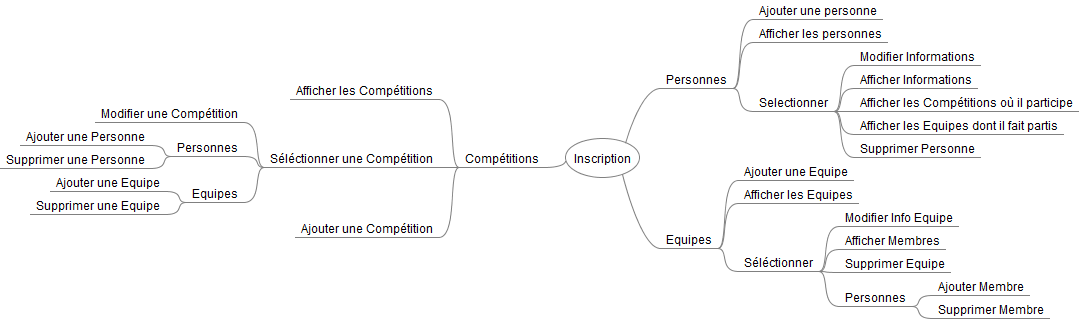
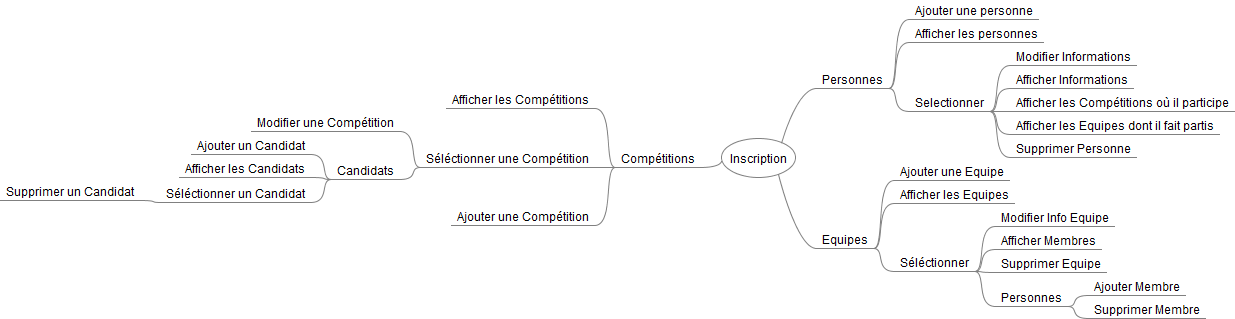
Mise à jour Arborescence de menu Candidat du côtés de compétition à la place de personne et équipe

diff --git a/InscriptionsSportives/Documents/Arborescence Menu.mm b/InscriptionsSportives/Documents/Arborescence Menu.mm
@@ -16,13 +16,12 @@
 <node CREATED="1543237430438" ID="ID_1581101758" MODIFIED="1543237439800" TEXT="Afficher les Comp&#xe9;titions"/>
 <node CREATED="1543237442670" ID="ID_1888822991" MODIFIED="1543237502496" TEXT="S&#xe9;l&#xe9;ctionner une Comp&#xe9;tition">
 <node CREATED="1543237519242" ID="ID_510768773" MODIFIED="1543237533350" TEXT="Modifier une Comp&#xe9;tition"/>
-<node CREATED="1543237536278" ID="ID_758800675" MODIFIED="1543237561507" TEXT="Personnes">
-<node CREATED="1543237569689" ID="ID_1584607204" MODIFIED="1543239162953" TEXT="Ajouter une Personne"/>
-<node CREATED="1543237668482" ID="ID_1163735905" MODIFIED="1543239157219" TEXT="Supprimer une Personne"/>
+<node CREATED="1543237536278" ID="ID_758800675" MODIFIED="1543843029094" TEXT="Candidats">
+<node CREATED="1543237569689" ID="ID_1584607204" MODIFIED="1543842968352" TEXT="Ajouter un Candidat"/>
+<node CREATED="1543843034666" ID="ID_62382430" MODIFIED="1543843085136" TEXT="Afficher les Candidats"/>
+<node CREATED="1543843112336" ID="ID_436267564" MODIFIED="1543843192209" TEXT="S&#xe9;l&#xe9;ctionner un Candidat">
+<node CREATED="1543237668482" ID="ID_1163735905" MODIFIED="1543842975233" TEXT="Supprimer un Candidat"/>
 </node>
-<node CREATED="1543237564550" ID="ID_19546492" MODIFIED="1543237567298" TEXT="Equipes">
-<node CREATED="1543239117319" ID="ID_1585229976" MODIFIED="1543239123713" TEXT="Ajouter une Equipe"/>
-<node CREATED="1543239132364" ID="ID_202299616" MODIFIED="1543239146856" TEXT="Supprimer une Equipe"/>
 </node>
 </node>
 <node CREATED="1543237507703" ID="ID_1129527766" MODIFIED="1543237516627" TEXT="Ajouter une Comp&#xe9;tition"/>
